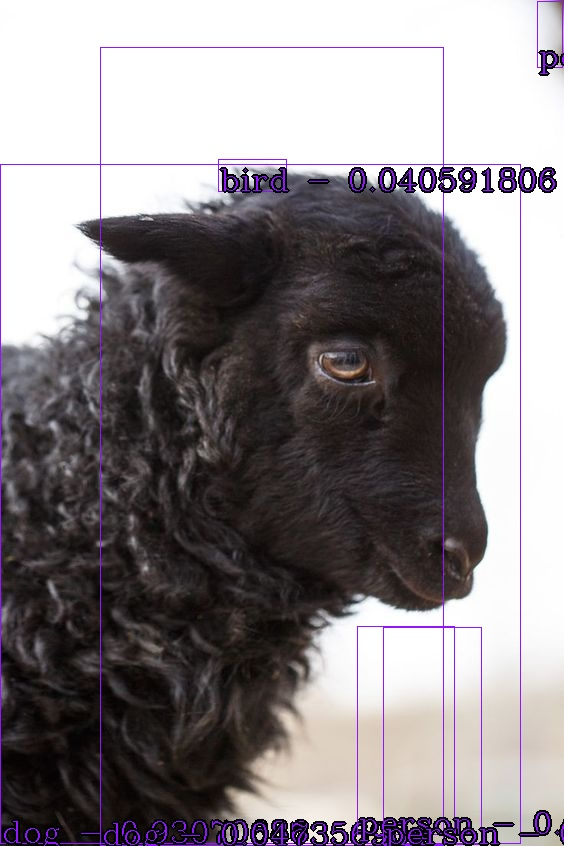
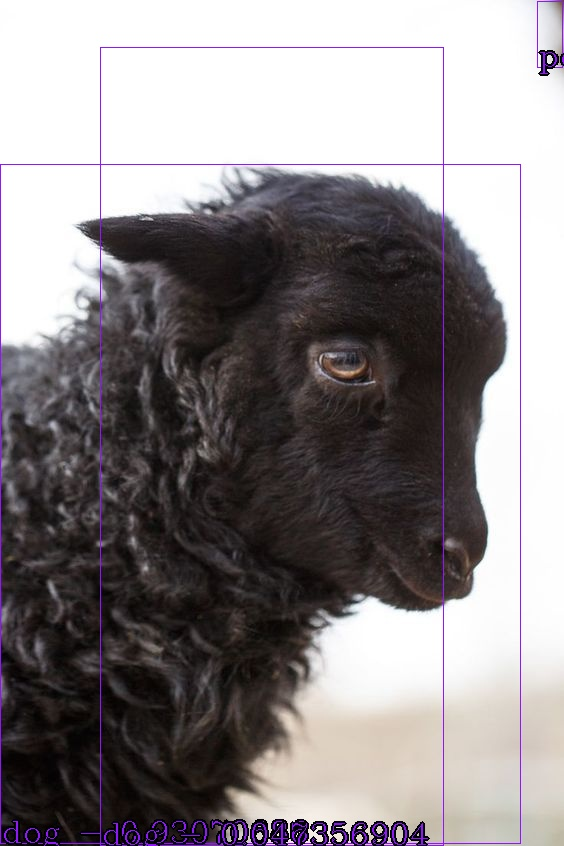
final pipeline execution

diff --git a/bounding-box-drawer/main.py b/bounding-box-drawer/main.py
@@ -39,7 +39,7 @@ if __name__ == '__main__':
             cv_image = cv2.imread(img_path)
 
             for idx, prediction_object in enumerate(prediction["objects"]):
-                if (idx > 5):
+                if (idx > 2):
                     break
                 coords_transformer = Coords_Transformator(img_path, prediction_object["relative_coordinates"])
                 coords = coords_transformer.get_coords_in_pixels()

diff --git a/tensorflow-object-detection/notebooks/main.py b/tensorflow-object-detection/notebooks/main.py
@@ -9,6 +9,7 @@ p1 = Pipeline('ssd_mobilenet_v1_coco_2017_11_17')
 p2 = Pipeline('mask_rcnn_inception_resnet_v2_atrous_coco_2018_01_28')
 
 for image_path in TEST_IMAGE_PATHS:
+    print(str(image_path))
     p1.predict(image_path)
     p2.predict(image_path)
 
